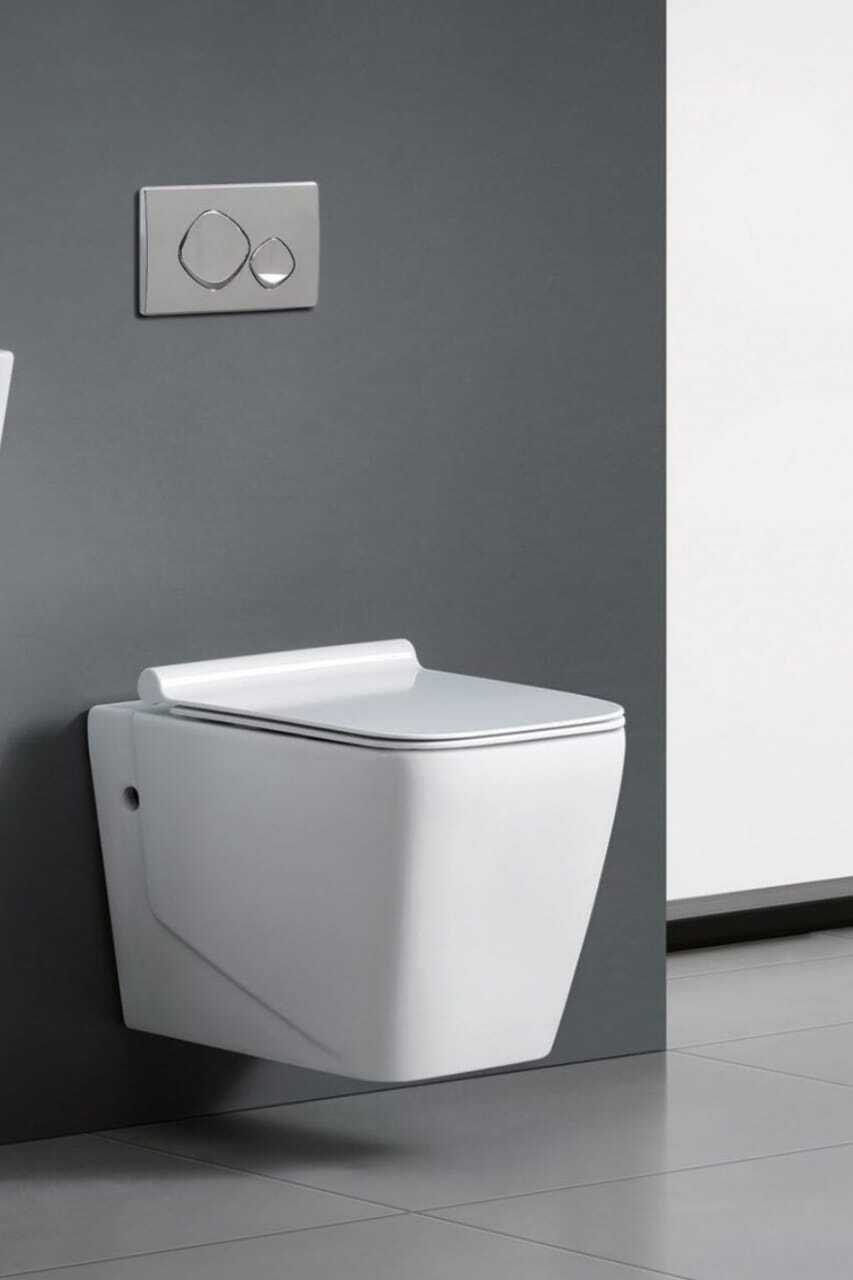
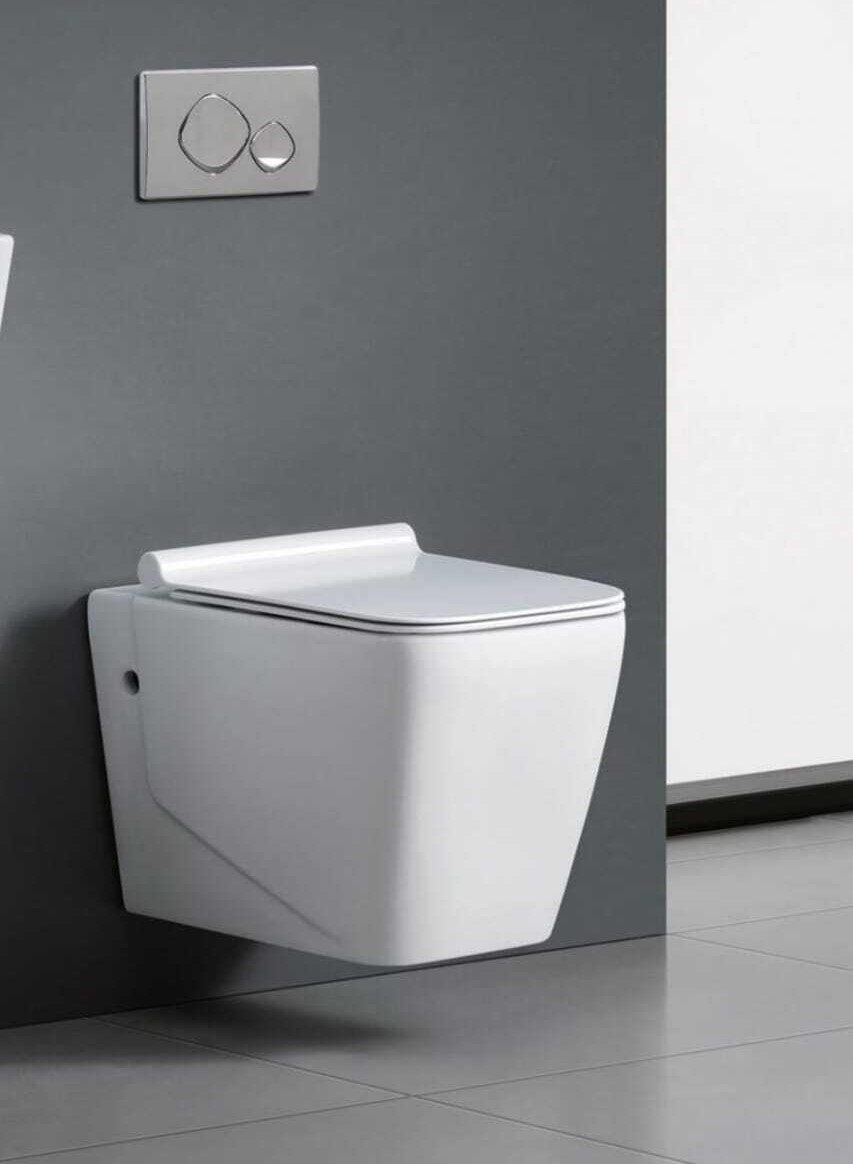
Update dependencies and enhance product images
- Added `react-icons` dependency for improved icon usage.
- Updated `flatted` and `undici` packages to their latest versions.
- Replaced several product images in the assets directory for better quality.
- Adjusted styles in `AboutSection`, `CategorySection`, and `ProductCategorySection` for improved layout and readability.
- Updated contact numbers in `FloatingContactButtons` and `Footer` components.

diff --git a/src/components/ProductCard.tsx b/src/components/ProductCard.tsx
@@ -7,7 +7,7 @@ interface ProductCardProps {
 
 export const ProductCard = ({ name, image, description, features }: ProductCardProps) => {
   return (
-    <div className="group bg-card rounded-xl border border-border overflow-hidden hover:border-primary/40 transition-all duration-500 hover:shadow-gold">
+    <div className="group bg-card rounded-xl border border-border overflow-hidden hover:border-primary/40 transition-all duration-500">
       <div className="relative overflow-hidden aspect-square">
         <img
           src={image}
@@ -15,10 +15,10 @@ export const ProductCard = ({ name, image, description, features }: ProductCardP
           className="w-full h-full object-cover transition-transform duration-700 group-hover:scale-110"
           loading="lazy"
         />
-        <div className="absolute inset-0 bg-gradient-to-t from-background/80 via-transparent to-transparent opacity-0 group-hover:opacity-100 transition-opacity duration-500" />
+        {/* <div className="absolute inset-0 bg-gradient-to-t from-background/80 via-transparent to-transparent opacity-0 group-hover:opacity-100 transition-opacity duration-500" /> */}
       </div>
       <div className="p-5">
-        <h4 className="text-lg font-semibold text-foreground mb-2" style={{ fontFamily: "var(--font-display)" }}>
+        <h4 className="text-lg font-semibold text-foreground mb-2 font-sans">
           {name}
         </h4>
         <p className="text-muted-foreground text-sm leading-relaxed mb-4">

diff --git a/src/data/products.ts b/src/data/products.ts
@@ -25,6 +25,7 @@ import aluminumCeilingImg from "@/assets/products/aluminum-ceiling.jpg";
 import spcWallImg from "@/assets/products/spc-wall.jpg";
 import wpcWallImg from "@/assets/products/wpc-wall.jpg";
 import carbonWallImg from "@/assets/products/carbon-wall.jpg";
+import carpetTilesImg from "@/assets/products/orient-carpet.jpg";
 
 export interface Product {
   name: string;
@@ -53,7 +54,7 @@ export const categories: Category[] = [
         features: ["Dual flush system", "Soft-close seat", "Easy-clean glaze", "Water efficient"],
       },
       {
-        name: "Bidet",
+        name: "Concealed Water Closet",
         image: bidetImg,
         description: "Elegant floor-standing and wall-mounted bidets for enhanced personal hygiene.",
         features: ["Chrome faucet included", "Anti-bacterial glaze", "Wall-mount option", "Compact design"],
@@ -165,6 +166,12 @@ export const categories: Category[] = [
       {
         name: "WPC Decking",
         image: wpcDeckingImg,
+        description: "Wood-Plastic Composite outdoor decking that resists rot, termites, and UV fading.",
+        features: ["Rot resistant", "UV stabilized", "Low maintenance", "Splinter free"],
+      },
+      {
+        name: "Carpet tiles",
+        image: carpetTilesImg,
         description: "Wood-Plastic Composite outdoor decking that resists rot, termites, and UV fading.",
         features: ["Rot resistant", "UV stabilized", "Low maintenance", "Splinter free"],
       },

diff --git a/src/pages/Index.tsx b/src/pages/Index.tsx
@@ -14,10 +14,10 @@ const Index = () => {
 
       <AboutSection />
 
-      <section className="py-20 px-4">
+      <section className="py-5 px-4">
         <div className="max-w-7xl mx-auto">
-          <div className="text-center mb-20">
-            <h2 className="text-3xl md:text-5xl font-bold mb-4" style={{ fontFamily: "var(--font-display)" }}>
+          <div className="text-center mb-10">
+            <h2 className="text-3xl md:text-5xl font-bold mb-4 font-sans">
               Our <span className="text-gradient-gold">Product Range</span>
             </h2>
             <p className="text-muted-foreground text-lg max-w-2xl mx-auto">
@@ -25,7 +25,7 @@ const Index = () => {
             </p>
           </div>
 
-          <div className="space-y-28">
+          <div className="space-y-10">
             {categories.map((category) => (
               <ProductCategorySection key={category.id} category={category} />
             ))}

diff --git a/src/components/FloatingContactButtons.tsx b/src/components/FloatingContactButtons.tsx
@@ -1,7 +1,8 @@
-import { Phone, MessageCircle } from "lucide-react";
+import { Phone } from "lucide-react";
+import { SiWhatsapp } from "react-icons/si";
 
-const PHONE_NUMBER = "+250788843505";
-const WHATSAPP_NUMBER = "+250788843505"; // Use full international format if needed, e.g. 250788843505
+const PHONE_NUMBER = "+250788302678";
+const WHATSAPP_NUMBER = "+250788302678";
 
 export const FloatingContactButtons = () => {
   const handleCallClick = () => {
@@ -30,7 +31,7 @@ export const FloatingContactButtons = () => {
         onClick={handleWhatsAppClick}
         className="flex items-center gap-2 rounded-full bg-[#25D366] text-white px-2 py-2 shadow-lg hover:bg-[#1ebe5d] transition-colors"
       >
-        <MessageCircle size={24} />
+        <SiWhatsapp size={24} />
       </button>
     </div>
   );

diff --git a/src/components/AboutSection.tsx b/src/components/AboutSection.tsx
@@ -10,11 +10,11 @@ export const AboutSection = () => {
   ];
 
   return (
-    <section id="about" className="scroll-mt-24 py-20 px-4">
+    <section id="about" className="scroll-mt-24 py-7 px-4">
       <div className="max-w-7xl mx-auto">
         <div className="grid lg:grid-cols-2 gap-16 items-center">
           <div>
-            <h2 className="text-3xl md:text-5xl font-bold text-foreground mb-6" style={{ fontFamily: "var(--font-display)" }}>
+            <h2 className="text-3xl md:text-5xl font-bold text-foreground mb-6 font-sans">
               About <span className="text-gradient-gold">Us</span>
             </h2>
             <div className="space-y-4 text-foreground leading-relaxed">

diff --git a/src/components/ProductCategorySection.tsx b/src/components/ProductCategorySection.tsx
@@ -7,8 +7,8 @@ interface ProductCategorySectionProps {
 
 export const ProductCategorySection = ({ category }: ProductCategorySectionProps) => {
   return (
-    <section id={category.id} className="scroll-mt-24">
-      <div className="mb-10">
+    <section id={category.id} className="scroll-mt-14">
+      <div className="mb-5">
         {/* <p className="text-primary text-sm font-medium tracking-[0.2em] uppercase mb-2">Collection</p> */}
         <h2 className="text-3xl md:text-4xl font-bold font-sans leading-tight  text-amber-600 mb-3">
           {category.title}

diff --git a/src/components/CategorySection.tsx b/src/components/CategorySection.tsx
@@ -8,7 +8,7 @@ interface CategorySectionProps {
 
 export const CategorySection = ({ id, title, image, items, reversed }: CategorySectionProps) => {
   return (
-    <div id={id} className="scroll-mt-24">
+    <div id={id} className="scroll-mt-20">
       <div className={`flex flex-col ${reversed ? "lg:flex-row-reverse" : "lg:flex-row"} gap-10 items-center`}>
         <div className="lg:w-1/2 w-full">
           <div className="relative overflow-hidden rounded-xl shadow-card group">

diff --git a/src/components/Footer.tsx b/src/components/Footer.tsx
@@ -100,7 +100,7 @@ export const Footer = () => {
             <div className="space-y-4">
               <div className="flex items-center gap-3">
                 <Phone className="text-amber-400 shrink-0" size={20} />
-                <span className="text-gray-300">+250 788 843 505</span>
+                <span className="text-gray-300">+250 788 302 678</span>
               </div>
 
               <div className="flex items-center gap-3">
